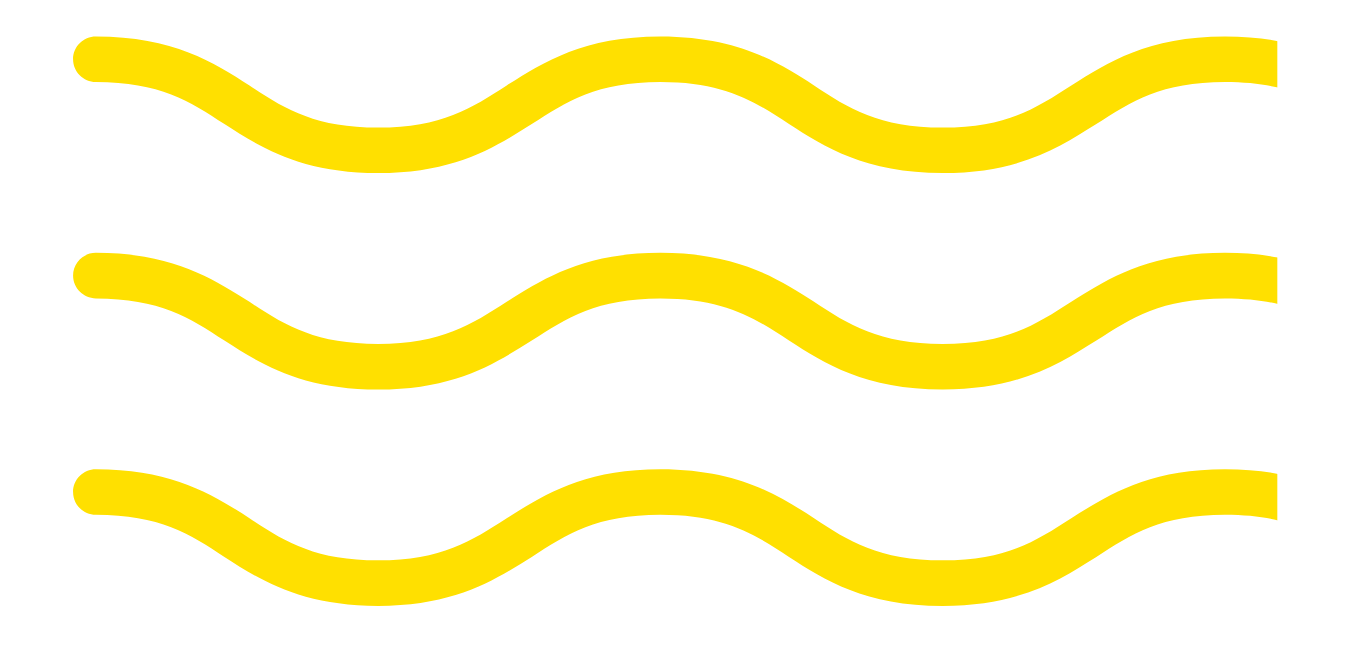
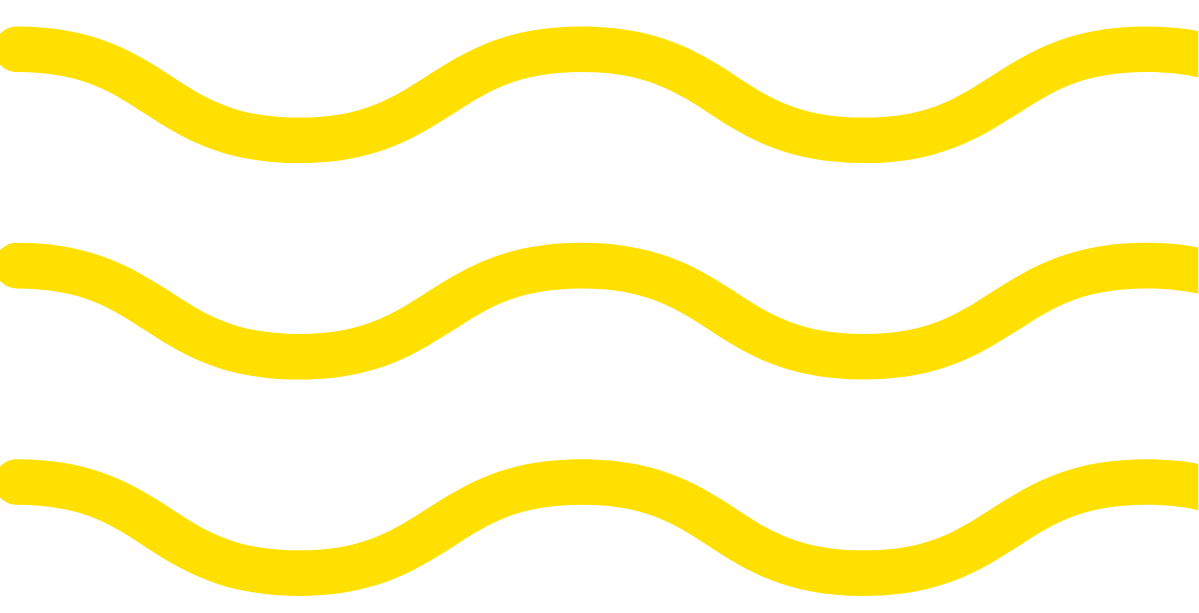
Removed horizontal scrolling at homepage - Cropped the images on the right

diff --git a/src/pages/Homepage.tsx b/src/pages/Homepage.tsx
@@ -268,9 +268,9 @@ const useStyles = makeStyles((theme) => ({
     position: "absolute",
     align: "right",
     top: 330,
-    right: -190,
+    right: 0,
     height: 200,
-    width: 390,
+    width: 100.78,
   },
   homepageimgleftcurly: {
     position: "absolute",
@@ -283,7 +283,7 @@ const useStyles = makeStyles((theme) => ({
     position: "absolute",
     align: "right",
     top: 130,
-    right: -20,
+    right: 0,
     height: 100,
     width: 200,
   },
